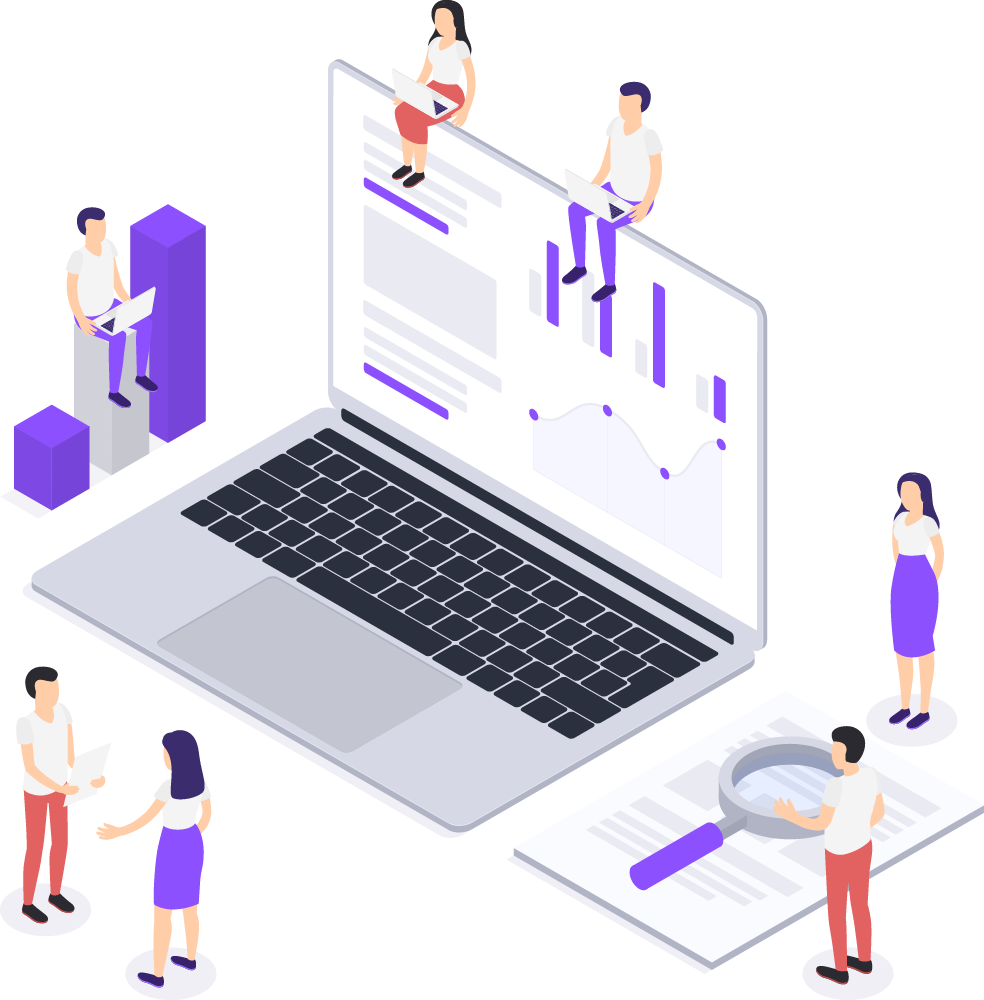
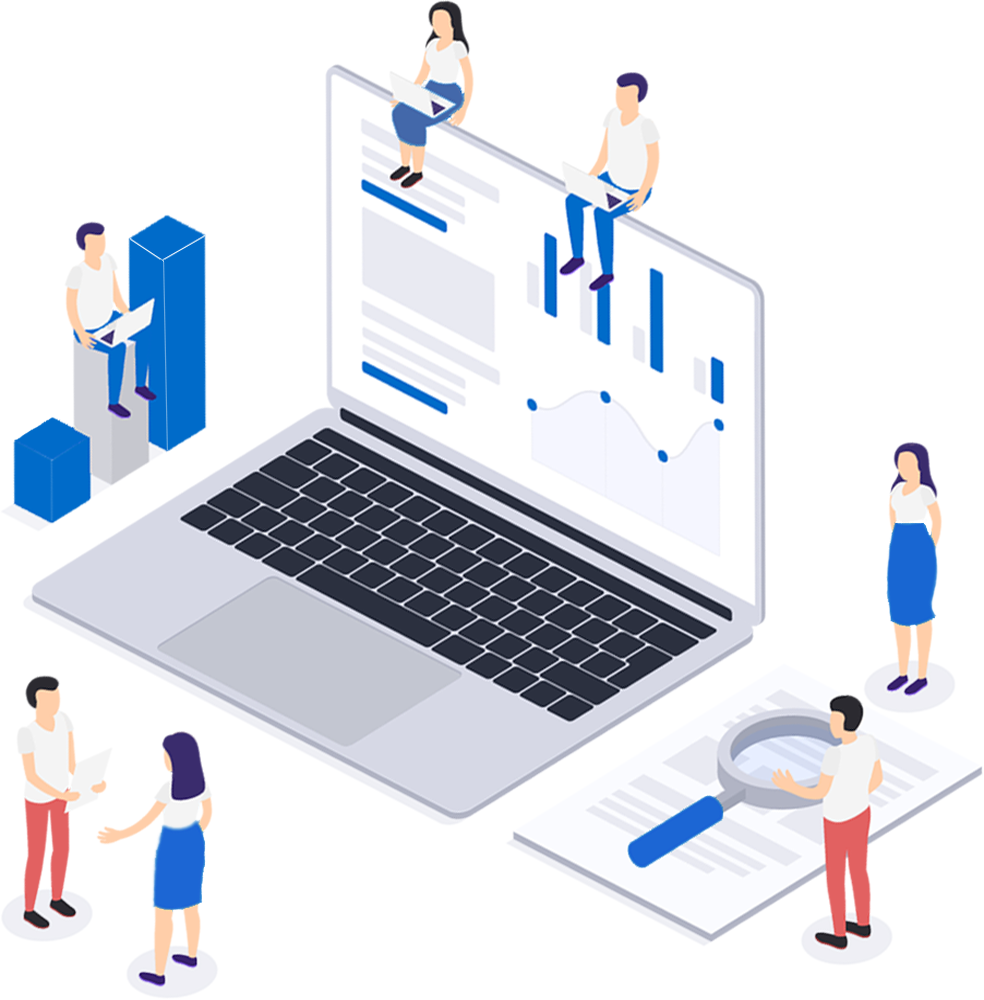
(CHANGE) Img nosotros3 color azul, (ADD) Padding: Login y Registro

diff --git a/registro.html b/registro.html
@@ -41,7 +41,7 @@
   </nav>
 <!-- Fin de NavBar -------------------------------------------------------------------------------> 
 
-<section id="registro" class="container mb-5">
+<section id="registro" class="container mb-5 pt-5">
 
   <div class="container d-flex justify-content-center">
     <div class="container1 d-flex justify-content-center">

diff --git a/login.html b/login.html
@@ -45,7 +45,7 @@
 <section id="inicio">
 
 
-  <div class="container d-flex justify-content-center">
+  <div class="container d-flex justify-content-center pt-5">
     <div class="container1 d-flex justify-content-center">
       <img class="img1" src="assets/logos/MediByte.png" alt="Logo">
     </div> 
